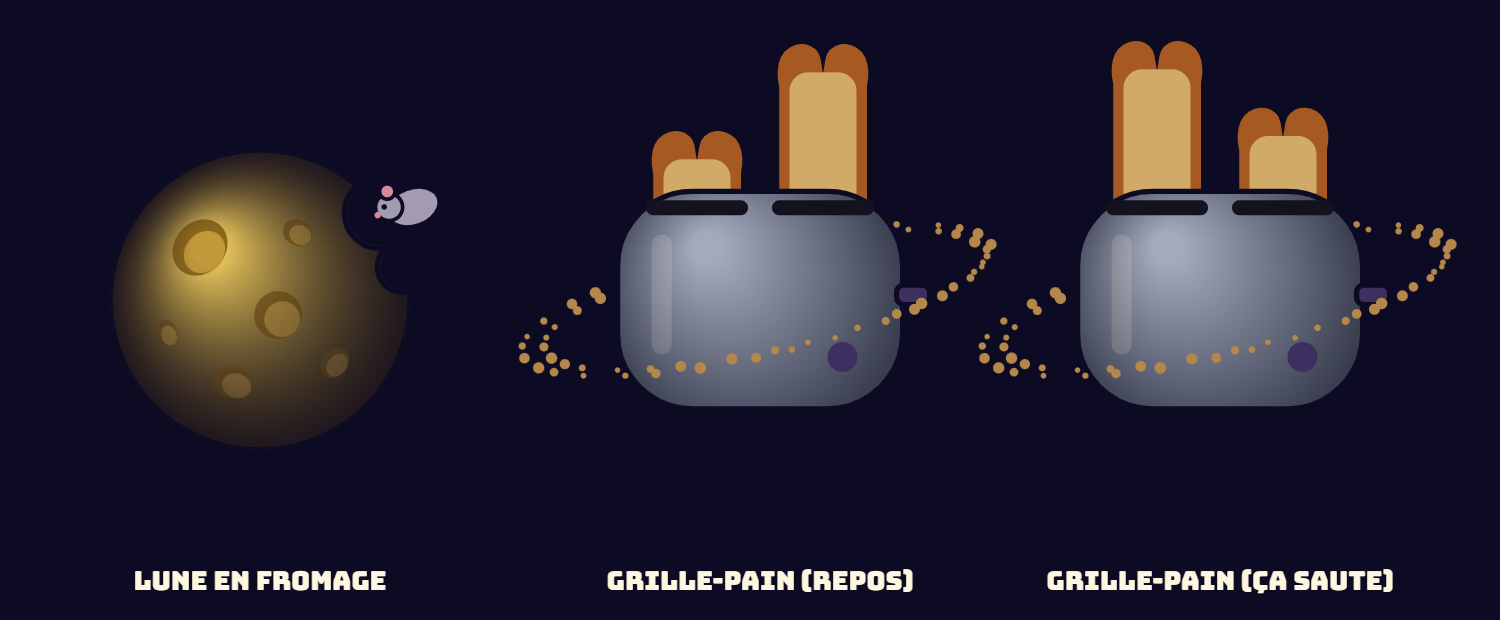
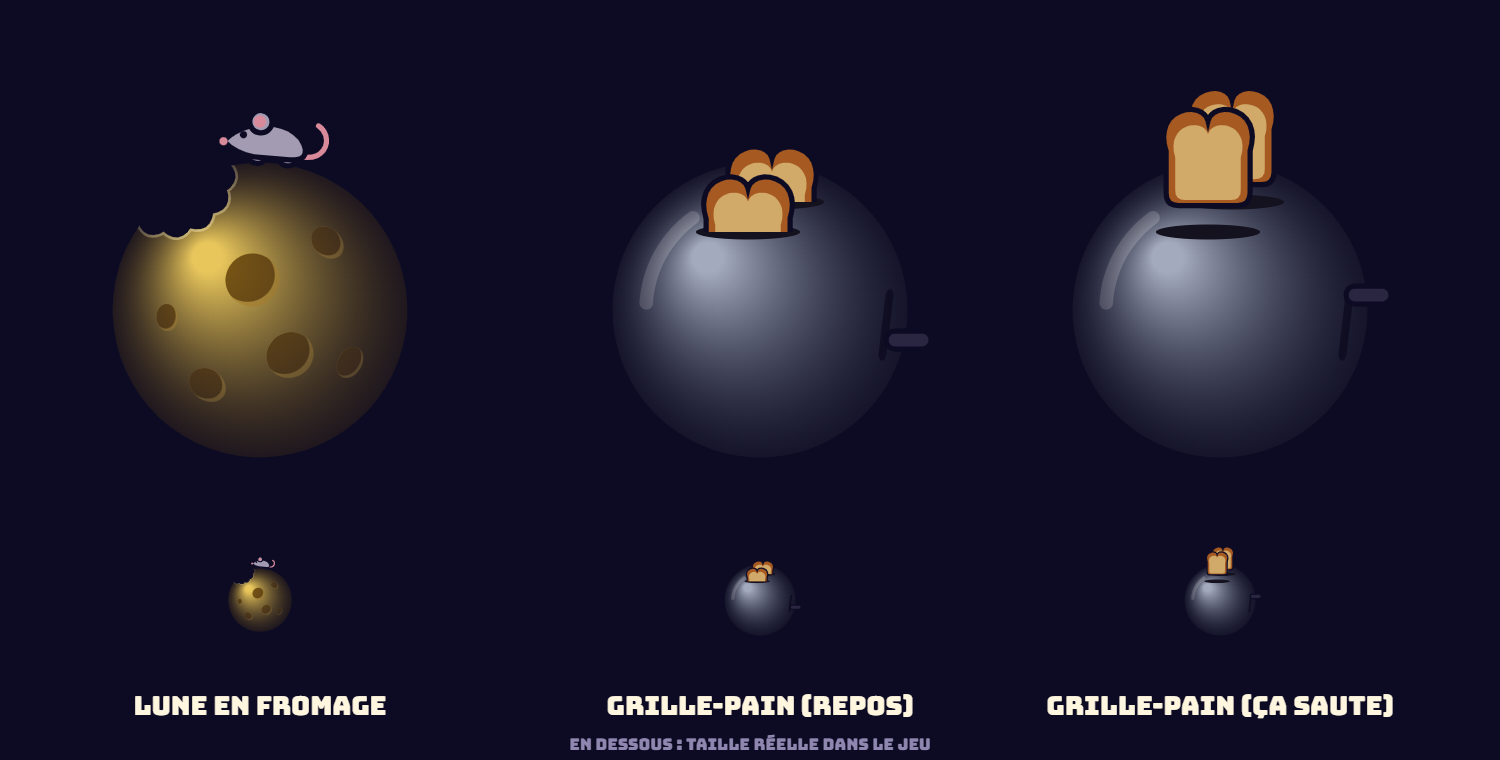
Redessine la lune en fromage et la planète grille-pain
Grille-pain rond comme une planète, deux tartines l'une derrière l'autre avec la silhouette de la tartine du jeu, plus d'anneau de miettes. Lune en fromage avec une vraie morsure dentelée côté éclairé et une souris posée sur le bord qui grignote.

diff --git a/public/js/app/planets.js b/public/js/app/planets.js
@@ -1,5 +1,5 @@
 import { PALETTE, SKY } from "../shared/palette.js";
-import { rr } from "./sprites.js";
+import { rr, toastPath } from "./sprites.js";
 
 const TAU = Math.PI * 2;
 const LIGHT = -0.75 * Math.PI;
@@ -301,143 +301,180 @@ function rock(ctx, r) {
   dots(ctx, r, R.spot, [[0.3, 0.2, 0.25], [-0.35, 0.35, 0.18], [-0.1, -0.45, 0.14]]);
 }
 
-const POP_S = 6, POP_UP = 0.6;
-const CRUMBS = Array.from({ length: 64 }, (_, i) => [(i / 64) * TAU + Math.sin(i * 7.3) * 0.03, 1 + 0.05 * Math.sin(i * 3.1), 0.028 + 0.01 * Math.sin(i * 5.7)]);
+const POP_S = 6, POP_UP = 0.6, SLOTS = [[0.08, -0.72, 0.1], [-0.08, -0.52, 0]];
 
-function crumbRing(ctx, r, back) {
+function popped(clock, delay) {
+  const k = (((clock - delay) % POP_S) + POP_S) % POP_S;
+  return k < POP_UP ? Math.sin((k / POP_UP) * Math.PI) : 0;
+}
+
+function bread(ctx, x, y, w) {
+  const T = SKY.toaster, k = w / 40;
   ctx.save();
-  ctx.rotate(-0.22);
-  ctx.fillStyle = SKY.toaster.crumbs;
-  for (const [a, k, s] of CRUMBS) {
-    if (Math.sin(a) < 0 !== back) continue;
-    disc(ctx, Math.cos(a) * r * 1.55 * k, Math.sin(a) * r * 0.36 * k, s * r);
-  }
+  ctx.translate(x, y);
+  ctx.scale(k, k);
+  ctx.lineWidth /= k;
+  toastPath(ctx, 40, 42);
+  ctx.fillStyle = T.crust;
+  ctx.fill();
+  ctx.stroke();
+  ctx.translate(0, 2);
+  ctx.scale(0.78, 0.78);
+  toastPath(ctx, 40, 42);
+  ctx.fillStyle = T.crumb;
+  ctx.fill();
   ctx.restore();
 }
 
-function slice(ctx, x, y, w, h) {
-  const T = SKY.toaster;
-  ctx.fillStyle = T.crust;
-  ctx.beginPath();
-  ctx.moveTo(x - w / 2, y);
-  ctx.lineTo(x - w / 2, y - h);
-  ctx.bezierCurveTo(x - w * 0.62, y - h - w * 0.55, x - w * 0.05, y - h - w * 0.6, x, y - h - w * 0.3);
-  ctx.bezierCurveTo(x + w * 0.05, y - h - w * 0.6, x + w * 0.62, y - h - w * 0.55, x + w / 2, y - h);
-  ctx.lineTo(x + w / 2, y);
-  ctx.closePath();
-  ctx.fill();
-  ctx.stroke();
-  ctx.fillStyle = T.crumb;
-  ctx.beginPath();
-  rr(ctx, x - w * 0.36, y - h - w * 0.15, w * 0.72, h + w * 0.15, w * 0.2);
-  ctx.fill();
-}
-
 function toaster(ctx, r, clock) {
-  const T = SKY.toaster, w = r * 1.9, h = r * 1.45, top = -h / 2;
-  crumbRing(ctx, r, true);
+  const T = SKY.toaster, w = r * 0.56, hop = popped(clock, 0);
+  ball(ctx, r, T.light, T.dark);
+  ctx.save();
+  ctx.strokeStyle = T.shine;
+  ctx.lineCap = "round";
+  ctx.lineWidth = r * 0.09;
+  ctx.beginPath();
+  ctx.arc(0, 0, r * 0.76, Math.PI * 1.02, Math.PI * 1.3);
+  ctx.stroke();
+  ctx.restore();
+  onSphere(ctx, r, 0.84, 0.1, () => {
+    ctx.fillStyle = T.slot;
+    ctx.beginPath();
+    rr(ctx, -r * 0.05, -r * 0.24, r * 0.1, r * 0.48, r * 0.05);
+    ctx.fill();
+  });
+  tone(ctx, r);
   ctx.strokeStyle = INK;
   ctx.lineWidth = ink(r);
-  for (const [x, delay] of [[-0.42, 0], [0.42, 0.25]]) {
-    const k = (clock + delay) % POP_S, hop = k < POP_UP ? Math.sin((k / POP_UP) * Math.PI) : 0;
-    slice(ctx, x * r, top + r * 0.3, r * 0.62, r * (0.42 + 0.6 * hop));
-  }
-  const g = ctx.createRadialGradient(-r * 0.35, -r * 0.35, r * 0.1, 0, 0, r * 1.2);
-  g.addColorStop(0, T.light);
-  g.addColorStop(1, T.dark);
-  ctx.fillStyle = g;
-  ctx.beginPath();
-  rr(ctx, -w / 2, top, w, h, r * 0.5);
-  ctx.fill();
-  ctx.stroke();
-  ctx.fillStyle = T.slot;
-  for (const x of [-0.42, 0.42]) {
+  for (const [x, y, delay] of SLOTS) {
+    ctx.fillStyle = T.slot;
     ctx.beginPath();
-    rr(ctx, x * r - r * 0.34, top + r * 0.06, r * 0.68, r * 0.1, r * 0.05);
+    ctx.ellipse(x * r, y * r, w * 0.62, r * 0.05, 0, 0, TAU);
     ctx.fill();
+    ctx.save();
+    ctx.beginPath();
+    ctx.rect(-r, -r * 3, 2 * r, r * (3 + y));
+    ctx.clip();
+    bread(ctx, x * r, (y - 0.02 - 0.45 * popped(clock, delay)) * r, w);
+    ctx.restore();
   }
   ctx.fillStyle = T.lever;
   ctx.beginPath();
-  rr(ctx, w / 2 - r * 0.04, -r * 0.1, r * 0.22, r * 0.13, r * 0.05);
+  rr(ctx, r * 0.84, r * (0.2 - 0.3 * hop) - r * 0.06, r * 0.3, r * 0.12, r * 0.06);
   ctx.fill();
   ctx.stroke();
-  ctx.fillStyle = T.lever;
-  disc(ctx, r * 0.55, r * 0.38, r * 0.1);
-  ctx.fillStyle = SKY.gleam;
-  ctx.beginPath();
-  rr(ctx, -w * 0.38, top + h * 0.2, w * 0.07, h * 0.55, w * 0.035);
-  ctx.fill();
-  crumbRing(ctx, r, false);
 }
 
-const HOLES = [[-0.4, -0.35, 0.2], [0.12, 0.1, 0.16], [-0.18, 0.55, 0.13], [0.5, 0.42, 0.11], [-0.62, 0.22, 0.09], [0.25, -0.45, 0.1]];
-const BITES = [[0.8, -0.58, 0.22], [0.95, -0.22, 0.15]];
+const HOLES = [[-0.05, -0.2, 0.18], [0.45, -0.45, 0.12], [0.2, 0.3, 0.16], [-0.35, 0.5, 0.13], [0.6, 0.35, 0.11], [-0.62, 0.05, 0.09]];
+const BITE = { a: -2.15, d: 1.1, s: 0.38, teeth: 5 };
 
 function hole(ctx, s, light) {
   const C = SKY.cheese;
-  ctx.fillStyle = C.hole;
-  disc(ctx, 0, 0, s);
+  ctx.save();
   ctx.fillStyle = C.floor;
-  disc(ctx, -Math.cos(light) * s * 0.25, -Math.sin(light) * s * 0.25, s * 0.75);
+  ctx.beginPath();
+  ctx.arc(0, 0, s, 0, TAU);
+  ctx.fill();
+  ctx.clip();
+  ctx.fillStyle = C.hole;
+  disc(ctx, Math.cos(light) * s * 0.25, Math.sin(light) * s * 0.25, s);
+  ctx.restore();
+}
+
+function biteEdge(ctx, r) {
+  const { a, d, s, teeth } = BITE, D = d * r, br = s * r, cx = Math.cos(a) * D, cy = Math.sin(a) * D;
+  const psi = Math.acos((br * br + D * D - r * r) / (2 * br * D)), bulge = br * 0.25;
+  const at = (t) => [cx + Math.cos(t) * br, cy + Math.sin(t) * br];
+  for (let i = 0; i < teeth; i++) {
+    const t1 = a + Math.PI + psi - ((i + 1) / teeth) * 2 * psi, tm = t1 + psi / teeth;
+    const [x1, y1] = at(t1), [mx, my] = at(tm);
+    ctx.quadraticCurveTo(mx + Math.cos(tm) * bulge, my + Math.sin(tm) * bulge, x1, y1);
+  }
+}
+
+function bitten(ctx, r) {
+  const { a, d, s } = BITE, D = d * r, br = s * r;
+  const phi = Math.acos((r * r + D * D - br * br) / (2 * r * D));
+  ctx.beginPath();
+  ctx.arc(0, 0, r, a + phi, a - phi + TAU);
+  biteEdge(ctx, r);
+  ctx.closePath();
 }
 
 function mouse(ctx, r) {
-  const C = SKY.cheese, s = r * 0.3;
+  const C = SKY.cheese, s = r * 0.34, at = BITE.a + 0.66;
   ctx.save();
-  ctx.translate(r * 1.02, -r * 0.62);
-  ctx.rotate(-0.35);
+  ctx.translate(Math.cos(at) * r, Math.sin(at) * r);
+  ctx.rotate(at + Math.PI / 2);
+  ctx.scale(-1, 1);
+  ctx.lineCap = "round";
+  ctx.lineJoin = "round";
   ctx.strokeStyle = INK;
-  ctx.lineWidth = ink(r) * 0.7;
-  ctx.beginPath();
-  ctx.moveTo(s * 0.5, s * 0.15);
-  ctx.quadraticCurveTo(s * 1.2, s * 0.3, s * 1.1, -s * 0.35);
-  ctx.stroke();
+  ctx.lineWidth = ink(r) * 2.4;
+  const tail = () => {
+    ctx.beginPath();
+    ctx.moveTo(-s * 0.55, -s * 0.12);
+    ctx.bezierCurveTo(-s * 1.1, -s * 0.05, -s * 1.15, -s * 0.6, -s * 0.85, -s * 0.75);
+    ctx.stroke();
+  };
+  tail();
+  ctx.strokeStyle = C.ear;
+  ctx.lineWidth = ink(r);
+  tail();
+  ctx.strokeStyle = INK;
   ctx.fillStyle = C.mouse;
+  for (const x of [-0.3, 0.3]) {
+    ctx.beginPath();
+    ctx.ellipse(x * s, 0, s * 0.14, s * 0.08, 0, 0, TAU);
+    ctx.fill();
+    ctx.stroke();
+  }
   ctx.beginPath();
-  ctx.ellipse(0, 0, s * 0.6, s * 0.42, 0, 0, TAU);
+  ctx.moveTo(s * 0.98, -s * 0.3);
+  ctx.bezierCurveTo(s * 0.62, -s * 0.78, -s * 0.32, -s * 0.88, -s * 0.6, -s * 0.36);
+  ctx.quadraticCurveTo(-s * 0.74, -s * 0.04, -s * 0.34, -s * 0.04);
+  ctx.lineTo(s * 0.36, -s * 0.04);
+  ctx.quadraticCurveTo(s * 0.72, -s * 0.08, s * 0.98, -s * 0.3);
+  ctx.closePath();
   ctx.fill();
   ctx.stroke();
   ctx.beginPath();
-  ctx.arc(-s * 0.5, -s * 0.18, s * 0.3, 0, TAU);
+  ctx.arc(s * 0.28, -s * 0.74, s * 0.22, 0, TAU);
   ctx.fill();
   ctx.stroke();
   ctx.fillStyle = C.ear;
-  ctx.beginPath();
-  ctx.arc(-s * 0.42, -s * 0.52, s * 0.17, 0, TAU);
-  ctx.fill();
-  ctx.stroke();
+  disc(ctx, s * 0.3, -s * 0.74, s * 0.12);
+  disc(ctx, s * 0.98, -s * 0.3, s * 0.08);
   ctx.fillStyle = INK;
-  disc(ctx, -s * 0.6, -s * 0.22, s * 0.06);
-  ctx.fillStyle = C.ear;
-  disc(ctx, -s * 0.8, -s * 0.1, s * 0.07);
+  disc(ctx, s * 0.6, -s * 0.46, s * 0.07);
   ctx.restore();
 }
 
 function cheese(ctx, r) {
-  const C = SKY.cheese;
+  const C = SKY.cheese, { a, d, s } = BITE;
   ctx.save();
-  ctx.beginPath();
-  ctx.arc(0, 0, r, 0, TAU);
-  for (const [x, y, s] of BITES) {
-    ctx.moveTo(x * r + s * r, y * r);
-    ctx.arc(x * r, y * r, s * r, 0, TAU);
-  }
-  ctx.clip("evenodd");
+  bitten(ctx, r);
+  ctx.clip();
   ball(ctx, r, C.light, C.dark);
-  clipped(ctx, r, () => {
-    for (const [x, y, s] of HOLES) onSphere(ctx, r, x, y, (light) => hole(ctx, s * r, light));
-  });
-  tone(ctx, r);
-  clipped(ctx, r, () => {
-    ctx.strokeStyle = INK;
-    ctx.lineWidth = ink(r) * 2;
-    for (const [x, y, s] of BITES) {
-      ctx.beginPath();
-      ctx.arc(x * r, y * r, s * r, 0, TAU);
-      ctx.stroke();
-    }
-  });
+  for (const [x, y, size] of HOLES) onSphere(ctx, r, x, y, (light) => hole(ctx, size * r, light));
+  const t = a + Math.PI + Math.acos((s * s + d * d - 1) / (2 * s * d));
+  ctx.strokeStyle = C.cut;
+  ctx.lineWidth = r * 0.07;
+  ctx.beginPath();
+  ctx.moveTo((Math.cos(a) * d + Math.cos(t) * s) * r, (Math.sin(a) * d + Math.sin(t) * s) * r);
+  biteEdge(ctx, r);
+  ctx.stroke();
+  const g = ctx.createRadialGradient(-r * 0.35, -r * 0.35, r * 0.1, 0, 0, r);
+  g.addColorStop(0, SKY.lit);
+  g.addColorStop(1, SKY.shade);
+  ctx.fillStyle = g;
+  ctx.fillRect(-r, -r, 2 * r, 2 * r);
   ctx.restore();
+  ctx.strokeStyle = INK;
+  ctx.lineWidth = ink(r);
+  ctx.lineJoin = "round";
+  bitten(ctx, r);
+  ctx.stroke();
   mouse(ctx, r);
 }
 

diff --git a/public/js/shared/palette.js b/public/js/shared/palette.js
@@ -45,8 +45,8 @@ export const SKY = {
   },
   moons: { light: "#5fa85a", dark: "#143320", spot: "#2c6435" },
   rock: { light: "#bf6a2c", dark: "#341910", spot: "#713617" },
-  toaster: { light: "#a3aabd", dark: "#262a3b", slot: "#14121f", crust: "#a65a22", crumb: "#d1aa6a", lever: "#3d3060", crumbs: "#b5874a" },
-  cheese: { light: "#e8c65c", dark: "#4a3510", hole: "#8f6a1c", floor: "#c39a3a", mouse: "#a29bb2", ear: "#d98a9a" }
+  toaster: { light: "#a3aabd", dark: "#262a3b", shine: "rgba(255, 255, 255, 0.3)", slot: "#14121f", crust: "#a65a22", crumb: "#d1aa6a", lever: "#2a2540" },
+  cheese: { light: "#e8c65c", dark: "#4a3510", hole: "#7a5614", floor: "#c39a3a", cut: "#f0d684", mouse: "#a29bb2", ear: "#d98a9a" }
 };
 
 export const SPREADS = {

diff --git a/public/js/app/sprites.js b/public/js/app/sprites.js
@@ -333,7 +333,7 @@ export function drawWarn(ctx, w, clock, now, C = PALETTE, avoid = null) {
   ctx.restore();
 }
 
-function toastPath(ctx, w, h) {
+export function toastPath(ctx, w, h) {
   ctx.beginPath();
   ctx.moveTo(-w / 2 + 6, h / 2);
   ctx.quadraticCurveTo(-w / 2, h / 2, -w / 2, h / 2 - 6);

diff --git a/README.md b/README.md
@@ -21,7 +21,7 @@ Jeu de soirée du collectif Tartine Sauvage. La tartine-fusée esquive les couve
 - Zones de touche : la tartine est un cercle de 26 px, chaque arme est faite de gélules (`parts` dans `projectiles.js`). « Frôlé » quand la tartine passe à moins de 11 px.
 - Frôlés : « Frôlé x2 », « x3 »… quand ils s'enchaînent à moins de 1,5 s, avec un son plus aigu à chaque cran (6 au plus). Chaque frôlé laisse une entaille dans la croûte, du côté où le couvert est passé (12 au plus). Aucun effet sur le score ni sur la zone de touche.
 - Effets : le chrono flashe en jaune toutes les 10 s, les couverts rapides (dès 380 px/s) laissent une traînée, et le fond passe du bleu nuit au violet vers 40 s puis au rouge sombre à 80 s, au rythme de la vitesse des couverts (`HEAT` dans `palette.js`).
-- Planètes du fond (`BODIES` dans `planets.js`, couleurs dans `SKY` de `palette.js`) : planète violette à anneau, lunes, planète pancake et son pot de confiture, planète verte à anneau, planète enceintes, astéroïde, lune en fromage grignotée par une souris, grille-pain à anneau de miettes dont les tartines sautent toutes les 6 s.
+- Planètes du fond (`BODIES` dans `planets.js`, couleurs dans `SKY` de `palette.js`) : planète violette à anneau, lunes, planète pancake et son pot de confiture, planète verte à anneau, planète enceintes, astéroïde, lune en fromage dont une souris grignote le bord, grille-pain rond dont les deux tartines (la silhouette de celle du jeu) sautent toutes les 6 s.
 - Étoile filante : de temps en temps (première entre 30 s et 3 min après l'ouverture du jeu, puis toutes les 2 à 4 min, menu compris), une petite canette traverse le fond en 9 s, loin derrière les planètes et les étoiles, avec une traînée dorée, en tournant doucement : 8.6 Original (bleu nuit, loup bleu, gros 8.6 blanc au point rouge) ou Amsterdam Maximator (vert, armoiries, voilier blanc à coque dorée), redessinées d'après les photos produit. Attention, certaines photos de magasin sont délavées : vérifier les couleurs sur l'image seule. Dessinée comme les planètes (sans contour, opaque, seule la traînée est transparente) pour qu'on ne la prenne pas pour une arme. Canettes dans `planets.js` (`CANS`), passage dans `scene.js` (`COMET_*`). En local, `?etoiles=souvent` la fait passer toutes les 4 à 6 s (pour tester seulement : sans ce lien, le vrai rythme).
 - Mort : le jeu se fige 0,3 s, puis l'éclaboussure. Sous « Tartinée ! », l'arme qui t'a eu (« par un hachoir », « par un couteau au dentifrice ») : `by` dans `PROJECTILES`, `with` dans `SPREADS`.
 - Garnitures : 9 tartinades dessinées sur la tartine (`TOPPINGS` dans `sprites.js`) : confiture, pâte à tartiner, miel et son abeille, ketchup en zigzag, dentifrice rayé, œuf au plat, sardine entière, slime qui a un œil, pâtée pour chien tartinée avec son odeur et sa mouche. Beurre au départ. 1 attaque à couteaux sur 10 a un couteau garni : le frôler ou se faire tuer par lui débloque sa garniture (pas en entraînement). Une garniture gagnée est mise tout de suite. Dès la première, toucher la tartine de l'accueil ouvre des flèches pour changer (une astuce le dit tant qu'on ne l'a pas fait). Gardées sur le téléphone (`cv-garnitures`, `cv-garniture`, `cv-garniture-astuce`), purement visuel. En local, `?garnitures=toutes` dans l'adresse les débloque toutes.
